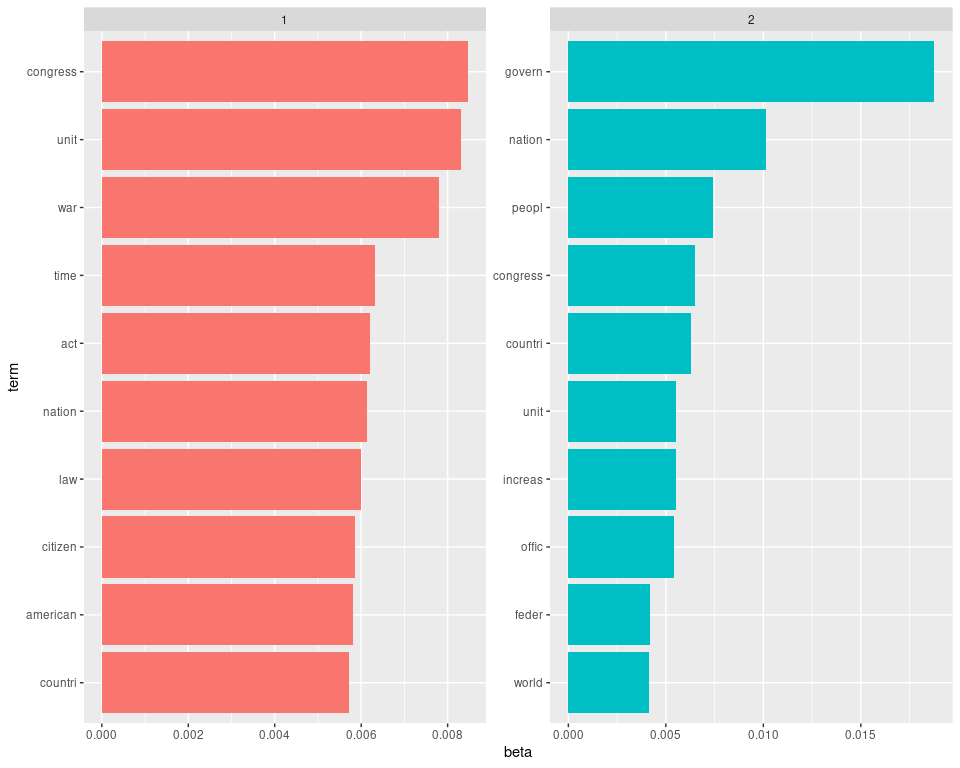
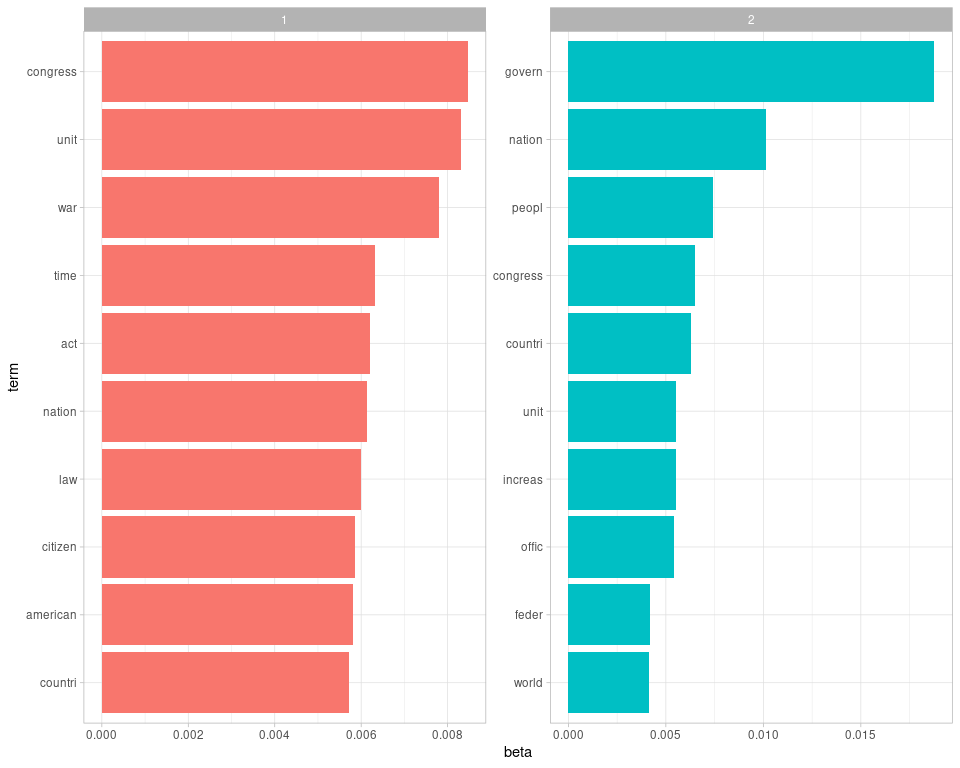
fix label

Changed region(s): [[0.5625, 0.0, 1.0, 0.0625], [0.0625, 0.0, 0.5312, 0.0625]]

diff --git a/text.md b/text.md
@@ -377,7 +377,8 @@ sotu_top_terms %>%
   ggplot(aes(beta, term, fill = factor(topic))) +
   geom_col(show.legend = FALSE) +
   facet_wrap(~ topic, scales = "free") +
-  scale_y_reordered()
+  scale_y_reordered()+
+  theme_light()
 ```
 
 ![](text_files/figure-gfm/unnamed-chunk-15-1.png)<!-- --> This graph
@@ -487,7 +488,8 @@ ggplot (data = sotu_gamma,
   geom_histogram()+
   facet_wrap(~ topic)+
    labs(title = "Distribution of probability for each topic",
-       y = "Number of documents", x = expression(gamma))+
+       y = "Number of documents", x = expression(gamma),
+       fill = "Topic")+
   theme_minimal()
 ```
 
